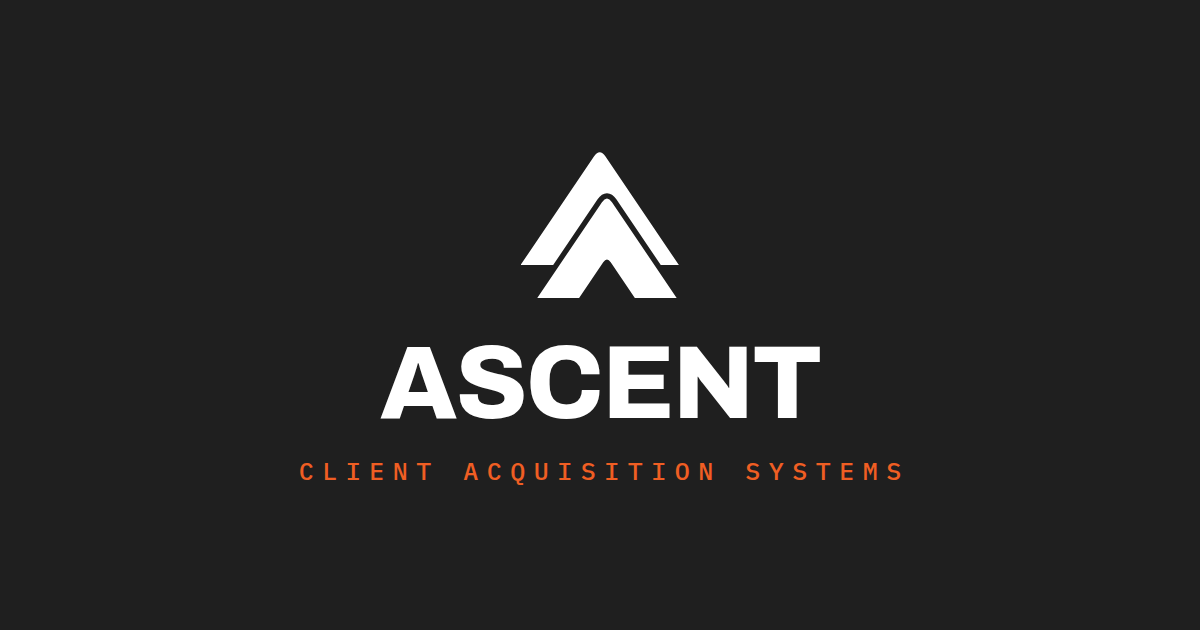
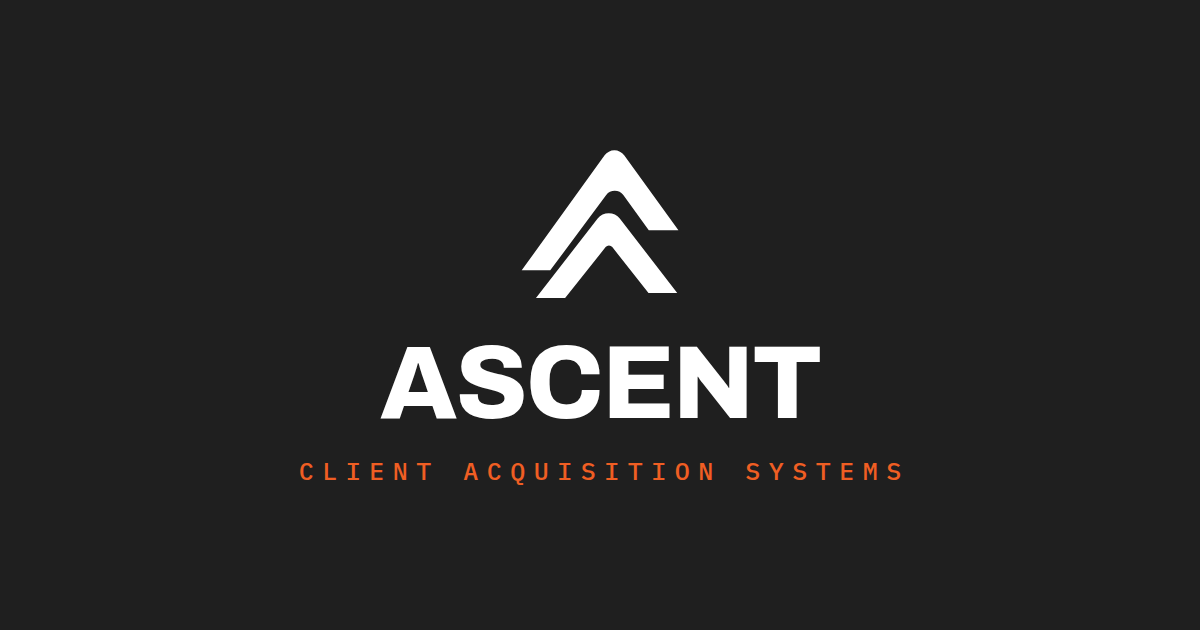
Trace the mark from the delivered artwork instead of eyeballing it
The delivered assets are raster only -- even the Canva .svg export wraps
a 308x297 PNG in a luminance mask rather than carrying real paths. Three
attempts at redrawing the mark by eye all missed, so this derives the
geometry from the artwork itself.

scripts/trace-mark.py classifies the orange and ink pixels, traces each
region's boundary, least-squares fits a line to every straight edge,
intersects consecutive lines for the ideal corners, fits a circle at each
rounded corner for its true fillet radius, and emits lines plus exact
circular arcs. The output matches the source to within antialiasing
(2.3% of pixels differ, all of them 1px boundary).

Two features of the real artwork the redrawn versions kept getting wrong:
the orange chevron's right arm stops short by design, handing the
diagonal off to the ink chevron, and both apexes are rounded.

brand/mark-paths.json is now the single source of truth -- Logo.tsx,
generate-assets.mjs and build-logo-svg.py all read it, replacing three
hand-maintained copies of the path data. The gap between the chevrons is
part of the traced outline, so the mask is gone: two plain filled paths
reproduce the artwork and the all-white reverse stays legible.

Lockup proportions now come from measurements of the client's own export
rather than being invented.

Changed region(s): [[0.4317, 0.2413, 0.5858, 0.4825]]

diff --git a/src/components/Logo.tsx b/src/components/Logo.tsx
@@ -1,22 +1,21 @@
-import { useId } from "react";
-
 /*
- * Ascent mark + lockup, rebuilt as vector.
+ * Ascent mark + lockup.
  *
- * The delivered brand assets are raster-only (see docs/ascent-brand-style-guide.md
- * §2 — "Still needed: vector"). The mark here is an SVG recreation of the two
- * stacked chevrons: outer orange, inner ink, offset and rising. When the client
- * supplies the official .svg lockup, swap it in here and regenerate the icons
- * (npm run generate:assets).
+ * The mark geometry is GENERATED from the delivered raster artwork by
+ * scripts/trace-mark.py and lives in brand/mark-paths.json — the single
+ * source of truth shared with scripts/generate-assets.mjs and
+ * scripts/build-logo-svg.py. Never hand-edit the path data; re-run the
+ * tracer instead.
+ *
+ * The transparent channel between the two chevrons is part of the traced
+ * outline, so two plain filled paths reproduce the artwork exactly and the
+ * all-white reverse keeps both chevrons legible with no mask involved.
  *
  * variant "onLight" → orange + ink (use on Paper or Surface only)
  * variant "onDark"  → all white reverse (use on Ink or Graphite)
  */
 
-/** Mark geometry — mirrored in scripts/generate-assets.mjs and
- *  scripts/build-logo-svg.py. Change all three together. */
-const OUTER = "M0,210 L131.92,14.91 Q142,0 152.08,14.91 L284,210 L206,210 L149.56,126.54 Q142,115.35 134.44,126.54 L78,210 Z";
-const INNER = "M30,269 L146.04,97.26 Q155,84 163.96,97.26 L280,269 L205,269 L161.72,204.94 Q155,195 148.28,204.94 L105,269 Z";
+import markPaths from "@/../brand/mark-paths.json";
 
 export function AscentMark({
   variant = "onLight",
@@ -29,29 +28,18 @@ export function AscentMark({
 }) {
   const outer = variant === "onDark" ? "#FFFFFF" : "var(--orange, #F05E23)";
   const inner = variant === "onDark" ? "#FFFFFF" : "var(--ink, #1F1F1F)";
-  const maskId = useId();
   return (
     <svg
-      viewBox="0 0 285 269"
+      viewBox={`0 0 ${markPaths.width} ${markPaths.height}`}
       className={className}
       role={title ? "img" : undefined}
       aria-hidden={title ? undefined : true}
       aria-label={title}
     >
-      {/* A transparent channel is knocked out of the outer chevron wherever
-          the inner one crosses it. Without it the all-white reverse merges
-          into a single blob — the exact failure the brand guide calls out
-          ("the inner chevron disappears"). Transparent, not painted, so it
-          works on Ink, Graphite, or a photo alike. */}
-      <mask id={maskId} maskUnits="userSpaceOnUse" x="0" y="0" width="285" height="269">
-        <rect x="0" y="0" width="285" height="269" fill="#fff" />
-        <path d={INNER} fill="#000" stroke="#000" strokeWidth="19" strokeLinejoin="round" />
-      </mask>
-      {/* outer chevron — orange, upper-left */}
-      <path d={OUTER} fill={outer} mask={`url(#${maskId})`} />
-      {/* inner chevron — ink, ~0.74x, offset down-right, apex tucked into
-          the orange notch and dropping below its baseline */}
-      <path d={INNER} fill={inner} />
+      {/* outer chevron — orange; its right arm stops short by design */}
+      <path d={markPaths.outer} fill={outer} />
+      {/* inner chevron — ink, offset down-right and dropping below */}
+      <path d={markPaths.inner} fill={inner} />
     </svg>
   );
 }

diff --git a/scripts/trace-mark.py b/scripts/trace-mark.py
@@ -1,0 +1,188 @@
+#!/usr/bin/env python3
+"""Derive exact vector geometry for the Ascent mark from the delivered raster.
+
+The delivered brand assets are raster only -- even the Canva .svg export wraps a
+308x297 PNG in a luminance mask rather than carrying real paths. This script
+recovers true vector geometry from `brand/source/ascent-mark-original.png`:
+
+  1. classify pixels into the orange and ink chevrons,
+  2. trace each region's boundary,
+  3. least-squares fit a line to every straight edge,
+  4. intersect consecutive lines for the ideal (unrounded) corners,
+  5. fit a circle at each rounded corner to recover its fillet radius,
+  6. emit a path of lines and exact circular arcs.
+
+The transparent channel between the two chevrons is part of the traced outline,
+so the output needs no mask: two plain filled paths reproduce the artwork, and
+the reverse (all-white) lockup keeps both chevrons legible for free.
+
+Requires: pip install numpy pillow
+Run:      python3 scripts/trace-mark.py
+"""
+import json
+import pathlib
+
+import numpy as np
+from PIL import Image
+
+ROOT = pathlib.Path(__file__).resolve().parent.parent
+SRC = ROOT / "brand" / "source" / "ascent-mark-original.png"
+OUT = ROOT / "brand" / "mark-paths.json"
+
+ROUND_MIN = 2.0     # corners with more clearance than this get a fillet
+EDGE_MIN = 25.0     # px; shorter boundary runs are corner rounding, not edges
+
+
+def load():
+    im = np.array(Image.open(SRC).convert("RGBA")).astype(int)
+    a, r, g, b = im[..., 3], im[..., 0], im[..., 1], im[..., 2]
+    solid = a > 128
+    return (solid & (r > 150) & (b < 110),
+            solid & (r < 110) & (g < 110) & (b < 110))
+
+
+def boundary(mask):
+    m = np.pad(mask, 1)
+    ys, xs = np.nonzero(m)
+    start = (ys.min(), xs[ys == ys.min()].min())
+    nb = [(-1, 0), (-1, 1), (0, 1), (1, 1), (1, 0), (1, -1), (0, -1), (-1, -1)]
+    out, cur, bd = [], start, 6
+    while True:
+        out.append((cur[1] - 1, cur[0] - 1))
+        for k in range(8):
+            d = (bd + 1 + k) % 8
+            ny, nx = cur[0] + nb[d][0], cur[1] + nb[d][1]
+            if m[ny, nx]:
+                bd = (d + 5) % 8
+                cur = (ny, nx)
+                break
+        else:
+            break
+        if cur == start and len(out) > 2:
+            break
+    return np.array(out, float)
+
+
+def simplify(pts, eps):
+    def rec(p):
+        if len(p) < 3:
+            return p
+        a, b = p[0], p[-1]
+        ab = b - a
+        L = np.hypot(*ab)
+        d = (np.abs(np.cross(ab, p - a)) / L) if L else np.hypot(*(p - a).T)
+        i = int(np.argmax(d))
+        return rec(p[:i + 1])[:-1] + rec(p[i:]) if d[i] > eps else [a, b]
+    ring = np.vstack([pts, pts[:1]])
+    return np.array(rec(ring)[:-1])
+
+
+def fit_lines(pts):
+    poly = simplify(pts, 1.2)
+    n = len(poly)
+    fits = []
+    for i in range(n):
+        a, b = poly[i], poly[(i + 1) % n]
+        d = b - a
+        L = np.hypot(*d)
+        if L <= EDGE_MIN:
+            continue
+        u = d / L
+        nv = np.array([-u[1], u[0]])
+        rel = pts - a
+        t, dist = rel @ u, np.abs(rel @ nv)
+        sel = pts[(t > L * .12) & (t < L * .88) & (dist < 2.5)]
+        c = sel.mean(axis=0)
+        _, _, vv = np.linalg.svd(sel - c)
+        fits.append((c, vv[0]))
+    return fits
+
+
+def corner(l1, l2):
+    (c1, d1), (c2, d2) = l1, l2
+    A = np.array([d1, -d2]).T
+    t = np.linalg.solve(A, c2 - c1)
+    return c1 + t[0] * d1
+
+
+def fit_radius(pts, P, r_guess):
+    """Circle fit over the contour points forming this corner's fillet."""
+    near = pts[np.hypot(*(pts - P).T) < r_guess * 3.2 + 6]
+    if len(near) < 6:
+        return 0.0
+    A = np.c_[2 * near, np.ones(len(near))]
+    sol, *_ = np.linalg.lstsq(A, (near ** 2).sum(1), rcond=None)
+    return float(np.sqrt(max(sol[2] + sol[0] ** 2 + sol[1] ** 2, 0)))
+
+
+def build(mask, name):
+    pts = boundary(mask)
+    lines = fit_lines(pts)
+    out = []
+    for k in range(len(lines)):
+        P = corner(lines[k], lines[(k + 1) % len(lines)])
+        clear = float(np.min(np.hypot(*(pts - P).T)))
+        r = fit_radius(pts, P, clear) if clear > ROUND_MIN else 0.0
+        # keep the fillet inside the two edges it joins
+        if r and r > clear * 6:
+            r = clear * 6
+        out.append({"p": P.tolist(), "clear": clear, "r": round(r, 2)})
+    print(f"{name}: {len(out)} corners  " +
+          "  ".join(f"({c['p'][0]:.1f},{c['p'][1]:.1f})r{c['r']:.1f}" for c in out))
+    return out
+
+
+def fillet_path(corners, ox, oy):
+    """Lines plus exact circular arcs, offset so the mark starts at 0,0."""
+    P = [np.array(c["p"]) - [ox, oy] for c in corners]
+    R = [c["r"] for c in corners]
+    n = len(P)
+    segs = []
+    for i in range(n):
+        A, C, B = P[(i - 1) % n], P[i], P[(i + 1) % n]
+        u1 = (A - C) / np.hypot(*(A - C))
+        u2 = (B - C) / np.hypot(*(B - C))
+        if R[i] <= 0:
+            segs.append(("L", C, None, None))
+            continue
+        th = np.arccos(np.clip(u1 @ u2, -1, 1))
+        d = min(R[i] / np.tan(th / 2),
+                .45 * np.hypot(*(A - C)), .45 * np.hypot(*(B - C)))
+        sweep = 1 if float(u1[0] * u2[1] - u1[1] * u2[0]) < 0 else 0
+        segs.append(("A", C + d * u1, C + d * u2, (d * np.tan(th / 2), sweep)))
+
+    parts = [f"M{segs[0][1][0]:.2f},{segs[0][1][1]:.2f}"]
+    if segs[0][0] == "A":
+        t2, (rr, sw) = segs[0][2], segs[0][3]
+        parts.append(f"A{rr:.2f},{rr:.2f} 0 0 {sw} {t2[0]:.2f},{t2[1]:.2f}")
+    for kind, a, b, extra in segs[1:]:
+        parts.append(f"L{a[0]:.2f},{a[1]:.2f}")
+        if kind == "A":
+            rr, sw = extra
+            parts.append(f"A{rr:.2f},{rr:.2f} 0 0 {sw} {b[0]:.2f},{b[1]:.2f}")
+    parts.append("Z")
+    return " ".join(parts)
+
+
+def main():
+    orange, ink = load()
+    o_corners = build(orange, "orange")
+    i_corners = build(ink, "ink")
+    ys, xs = np.nonzero(orange | ink)
+    x0, y0, x1, y1 = float(xs.min()), float(ys.min()), float(xs.max()), float(ys.max())
+    out = {
+        "_comment": "GENERATED by scripts/trace-mark.py from the delivered "
+                    "raster mark. Do not hand-edit. The transparent channel "
+                    "between the chevrons is part of the outline, so these "
+                    "two paths need no mask.",
+        "width": round(x1 - x0, 2),
+        "height": round(y1 - y0, 2),
+        "outer": fillet_path(o_corners, x0, y0),
+        "inner": fillet_path(i_corners, x0, y0),
+    }
+    OUT.write_text(json.dumps(out, indent=2) + "\n")
+    print(f"{out['width']}x{out['height']} -> {OUT.relative_to(ROOT)}")
+
+
+if __name__ == "__main__":
+    main()

diff --git a/scripts/build-logo-svg.py b/scripts/build-logo-svg.py
@@ -12,8 +12,8 @@ reason: one source of truth for the mark.
 Requires: pip install fonttools brotli
 Run:      python3 scripts/build-logo-svg.py
 """
+import json
 import pathlib
-import re
 
 from fontTools.pens.svgPathPen import SVGPathPen
 from fontTools.ttLib import TTFont
@@ -24,27 +24,22 @@ FONTS = ROOT / "src" / "fonts"
 
 ORANGE, INK, WHITE = "#F05E23", "#1F1F1F", "#FFFFFF"
 
-# --- mark geometry, parsed from the asset script so it can never drift -------
-_assets = (ROOT / "scripts" / "generate-assets.mjs").read_text()
+# --- mark geometry, GENERATED by scripts/trace-mark.py ----------------------
+_marks = json.loads((ROOT / "brand" / "mark-paths.json").read_text())
+MARK_OUTER, MARK_INNER = _marks["outer"], _marks["inner"]
+MARK_W, MARK_H = _marks["width"], _marks["height"]
 
-
-def _chevron(key: str) -> str:
-    m = re.search(rf'{key}:\s*"([^"]+)"', _assets)
-    if not m:
-        raise SystemExit(f"could not find chevron '{key}' in generate-assets.mjs")
-    return m.group(1)
-
-
-MARK_OUTER, MARK_INNER = _chevron("outer"), _chevron("inner")
-_vb = re.search(r"viewBox:\s*\{\s*w:\s*(\d+),\s*h:\s*(\d+)", _assets)
-MARK_W, MARK_H = int(_vb.group(1)), int(_vb.group(2))
-
-# --- lockup metrics, proportional to the mark -------------------------------
-GAP = 70           # mark -> wordmark
-WORD_CAP = 149     # ASCENT cap height
-WORD_BASE = 204    # ASCENT baseline
-TAG_CAP = 23       # tagline cap height
-TAG_BASE = 257     # tagline baseline
+# --- lockup metrics ---------------------------------------------------------
+# Measured off the client's Canva lockup export (mark 81.55w x 78.75h units)
+# and scaled to this mark's height, so the proportions match the artwork
+# rather than being re-invented.
+_K = MARK_H / 78.75
+GAP = 10.73 * _K        # mark -> wordmark
+WORD_CAP = 37.34 * _K   # ASCENT cap height
+WORD_BASE = 58.27 * _K  # ASCENT baseline, from the top of the mark
+TAG_CAP = 6.72 * _K     # tagline cap height
+TAG_BASE = 74.19 * _K   # tagline baseline
+TAG_WIDTH_RATIO = 225.08 / 229.14   # tagline measures slightly under ASCENT
 
 
 def glyph_run(font_path, text):
@@ -80,26 +75,19 @@ def text_group(spec, cap_target, baseline, x0, fill, tracking=0.0):
 
 
 def mark_svg(outer_fill, inner_fill):
-    """The mark, with a transparent channel knocked out of the outer chevron
-    wherever the inner one crosses it. Without it the all-white reverse merges
-    into a single blob and the inner chevron disappears (brand guide 2). The
-    gap is transparent rather than painted, so the files drop onto Ink,
-    Graphite, a photo, or a garment without carrying a background with them."""
+    """Two plain filled paths. The transparent channel between the chevrons is
+    part of the traced outline, so no mask is needed -- the files drop onto
+    Ink, Graphite, a photo, or a garment without carrying a background."""
     return (
-        f'<mask id="gap" maskUnits="userSpaceOnUse" x="0" y="0" '
-        f'width="{MARK_W}" height="{MARK_H}">'
-        f'<rect x="0" y="0" width="{MARK_W}" height="{MARK_H}" fill="#fff"/>'
-        f'<path d="{MARK_INNER}" fill="#000" stroke="#000" stroke-width="19" '
-        f'stroke-linejoin="round"/></mask>'
-        f'<path fill="{outer_fill}" d="{MARK_OUTER}" mask="url(#gap)"/>'
+        f'<path fill="{outer_fill}" d="{MARK_OUTER}"/>'
         f'<path fill="{inner_fill}" d="{MARK_INNER}"/>'
     )
 
 
 def svg_doc(width, height, body, title):
     return (
-        f'<svg xmlns="http://www.w3.org/2000/svg" viewBox="0 0 {width:.0f} {height}" '
-        f'width="{width:.0f}" height="{height}" role="img" aria-label="{title}">'
+        f'<svg xmlns="http://www.w3.org/2000/svg" viewBox="0 0 {width:.0f} {height:.0f}" '
+        f'width="{width:.0f}" height="{height:.0f}" role="img" aria-label="{title}">'
         f"<title>{title}</title>{body}</svg>\n"
     )
 
@@ -113,8 +101,7 @@ def build():
     word_scale = WORD_CAP / word["cap"]
     word_w = word["width"] * word_scale
 
-    # Letterspace the tagline so it measures exactly as wide as ASCENT --
-    # the construction the delivered lockup uses.
+    # Letterspace the tagline to the width the delivered lockup uses.
     tag_scale = TAG_CAP / tag["cap"]
     natural = tag["width"] * tag_scale
     tracking = (word_w - natural) / (len(tag["run"]) - 1)

diff --git a/README.md b/README.md
@@ -107,18 +107,34 @@ geometry and everything else is generated from it. Downloadable files live in
 The wordmark in these files is **outlined, not live text**, so a print shop,
 Illustrator, or a shirt vendor renders them correctly with no font installed.
 
-**The mark geometry lives in three places and they must change together:**
-`src/components/Logo.tsx`, `scripts/generate-assets.mjs`, and
-`scripts/build-logo-svg.py`. After any change:
+### Where the mark comes from
+
+The delivered artwork is raster only — even the Canva `.svg` export wraps a
+308×297 PNG in a luminance mask rather than carrying real paths. So the vector
+mark is **traced from the raster**, not redrawn by eye:
 
 ```bash
-npm run generate:assets                 # favicons + OG image
-python3 scripts/build-logo-svg.py       # brand/*.svg  (pip install fonttools brotli)
+python3 scripts/trace-mark.py      # brand/source/*.png -> brand/mark-paths.json
+npm run generate:assets            # favicons + OG image
+python3 scripts/build-logo-svg.py  # brand/*.svg
+# both python scripts need: pip install numpy pillow fonttools brotli
 ```
 
-A transparent channel is knocked out of the outer chevron wherever the inner
-one crosses it. Without it the all-white reverse merges into a single blob and
-the inner chevron disappears — the failure the brand guide calls out in §2.
+`scripts/trace-mark.py` classifies the orange and ink pixels, traces each
+region's boundary, least-squares fits a line to every straight edge, intersects
+consecutive lines for the ideal corners, fits a circle at each rounded corner
+for its true fillet radius, and emits lines plus exact circular arcs. The
+result matches the source raster to within antialiasing.
+
+**`brand/mark-paths.json` is the single source of truth.** `Logo.tsx`,
+`generate-assets.mjs`, and `build-logo-svg.py` all read it — never hand-edit
+path data, re-run the tracer.
+
+Two things about the artwork worth knowing, because both look like bugs:
+the orange chevron's **right arm stops short** by design, handing the diagonal
+off to the ink chevron; and the gap between the chevrons is **part of the
+outline**, not a mask, which is what keeps the all-white reverse legible
+instead of merging into one blob.
 
 ## Deploying and connecting the domain
 
